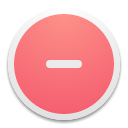
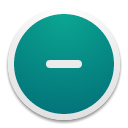
Adjust colors

diff --git a/view/index.css b/view/index.css
@@ -27,10 +27,10 @@ div {
 
 div:before {
 	content: '';
-	width: 91%; /* 950 */
-	height: 91%; /* 950 */
+	width: 91%;
+	height: 91%;
 	border-radius: 100%;
-	background-image: radial-gradient(circle at 50% 0%, #FD9188 0%, #F4596D 100%);
+	background-image: radial-gradient(circle at 50% 0%, #0BA692 0%, #026E77 100%);
 }
 
 div:after {
